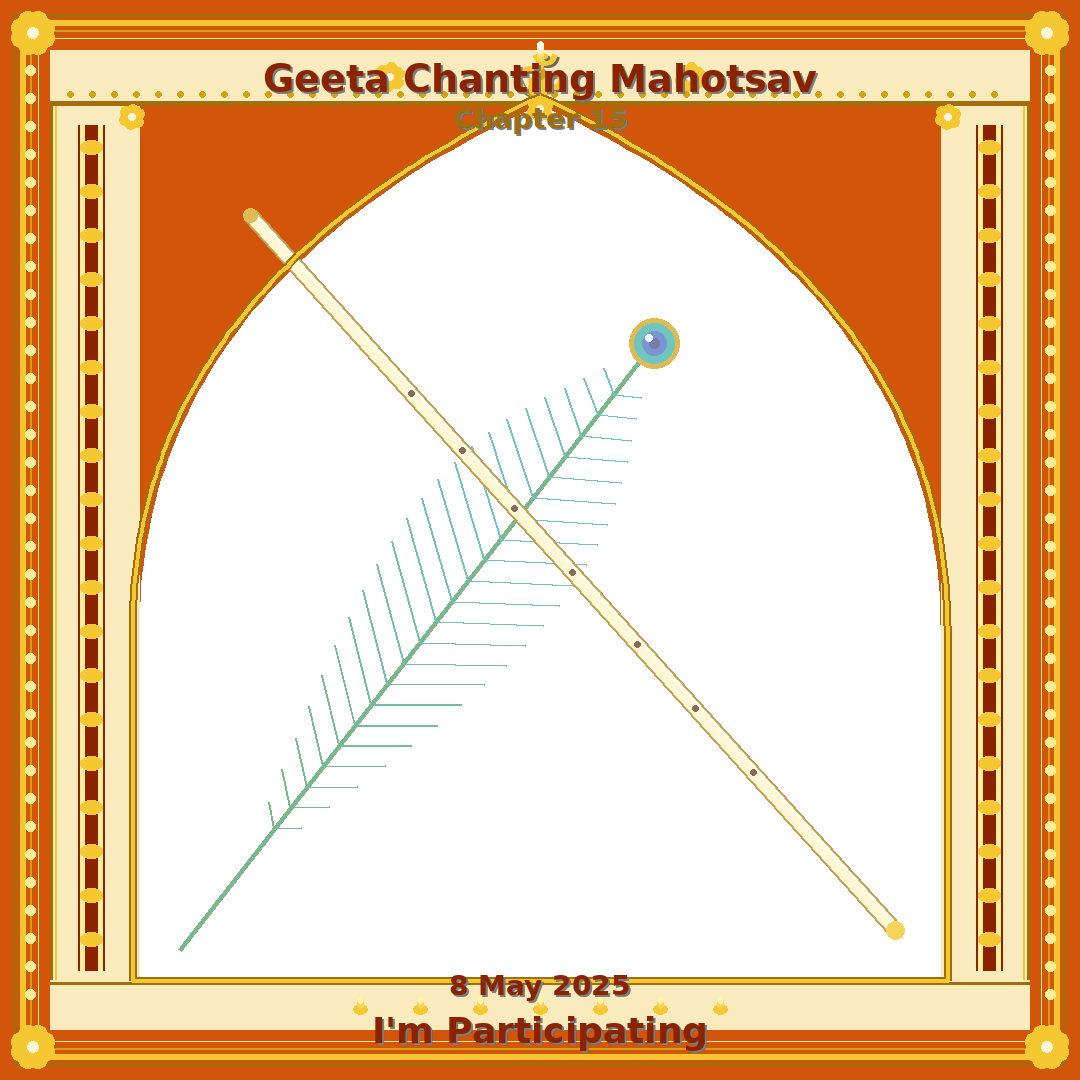
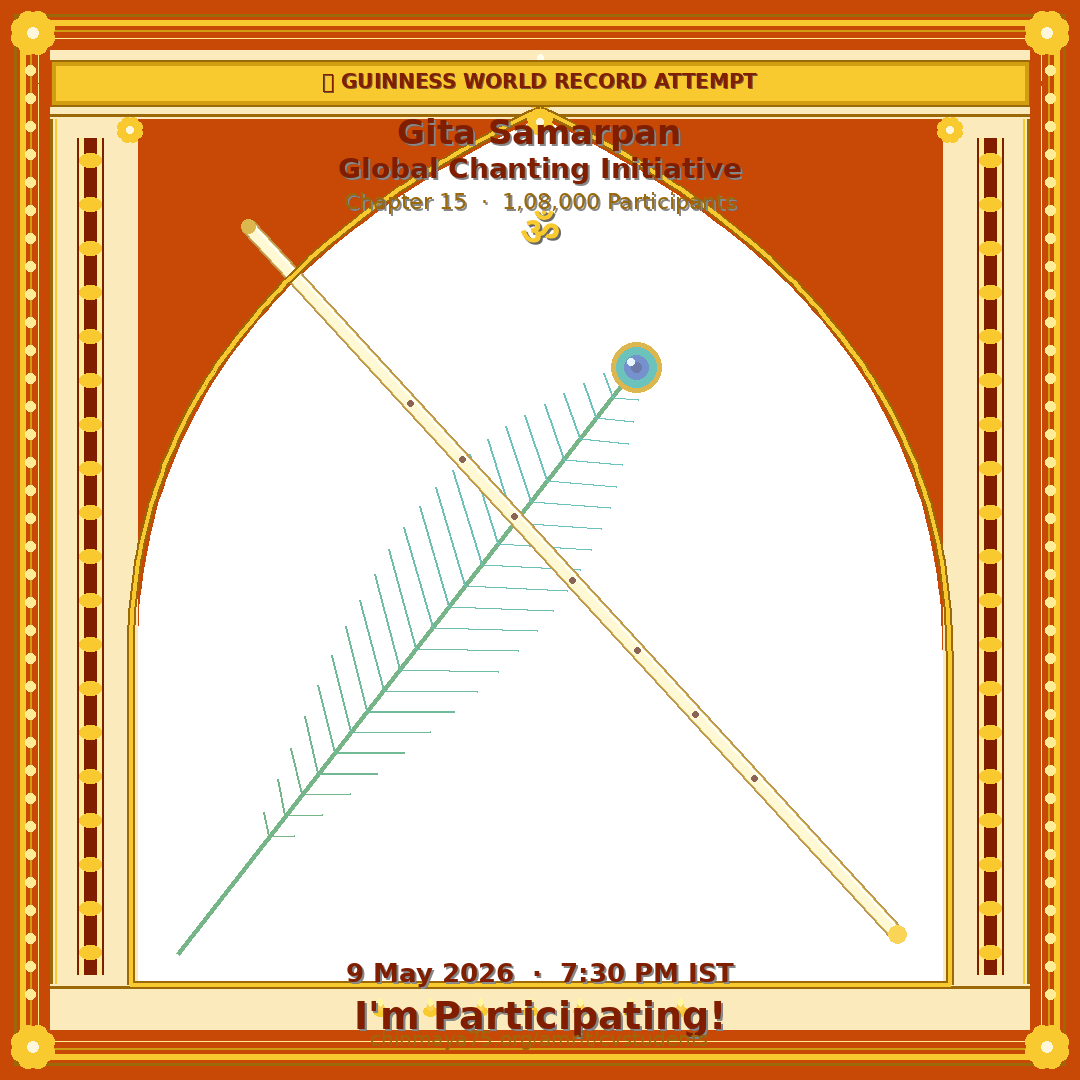
feat: Campaign accuracy update – Gita Samarpan v5
Frames (v5):
- Correct event: Gita Samarpan / वैश्विक गीता पाठ कार्यक्रम
- Correct date: 9 May 2026 · 7:30 PM IST (was 8 May)
- Guinness World Record gold ribbon badge at top of frame
- 1,08,000 participants callout on frame
- Registration URL: chinmaya75.org/amrit/cvstudents on frame
- Chinmaya Mission branding

App code:
- Header: Guinness badge, corrected date/time/participant count
- ActionButtons: full campaign sharing text with registration link,
  correct hashtags (#GitaSamarpan #ChinmayaMission #GuinnessRecord)
- page.tsx: Event info card with registration CTA button,
  updated footer with live registration link
- layout.tsx: Updated SEO metadata/OG tags for campaign

Changed region(s): [[0.0306, 0.0306, 0.9778, 0.9778], [0.7944, 0.825, 0.825, 0.8556], [0.2444, 0.7333, 0.275, 0.7639]]

diff --git a/app/page.tsx b/app/page.tsx
@@ -63,8 +63,23 @@ export default function HomePage() {
             />
             <UploadBox onImageSelected={handleImageSelected} />
 
+            {/* Event info card */}
+            <div className="rounded-xl bg-gradient-to-br from-orange-50 to-yellow-50 border border-orange-200 px-4 py-3 text-sm text-orange-800 space-y-2">
+              <p className="font-bold text-orange-900">🏆 Guinness World Record Attempt</p>
+              <p className="text-orange-700">1,08,000 participants chanting Bhagavad Gita Chapter 15 simultaneously — by Chinmaya Mission USA.</p>
+              <p className="text-orange-600 font-medium">📅 9 May 2026 &nbsp;·&nbsp; 🕖 7:30 PM IST</p>
+              <a
+                href="https://chinmaya75.org/amrit/cvstudents"
+                target="_blank"
+                rel="noopener noreferrer"
+                className="block w-full text-center bg-orange-600 hover:bg-orange-700 text-white font-bold py-2.5 rounded-xl mt-1 transition-colors shadow"
+              >
+                🔗 Register Free (Indian Students)
+              </a>
+            </div>
+
             {/* Tips */}
-            <div className="rounded-xl bg-orange-50 border border-orange-200 px-4 py-3 text-sm text-orange-700 space-y-1">
+            <div className="rounded-xl bg-white border border-orange-100 px-4 py-3 text-sm text-orange-700 space-y-1">
               <p className="font-semibold">💡 Tips for best results</p>
               <p>• Use a square or portrait photo</p>
               <p>• Ensure your face is centred</p>
@@ -159,8 +174,16 @@ export default function HomePage() {
       </main>
 
       {/* ── Footer ─────────────────────────────────────────────────────── */}
-      <footer className="text-center py-4 text-xs text-orange-400 border-t border-orange-100">
-        🕉 वैश्विक गीता पाठ कार्यक्रम · Chapter 15 · 8 May
+      <footer className="text-center py-4 px-4 text-xs text-orange-400 border-t border-orange-100 space-y-1">
+        <p>🕉 Gita Samarpan · Chinmaya Mission USA · 9 May 2026</p>
+        <a
+          href="https://chinmaya75.org/amrit/cvstudents"
+          target="_blank"
+          rel="noopener noreferrer"
+          className="text-orange-500 underline"
+        >
+          chinmaya75.org/amrit/cvstudents
+        </a>
       </footer>
     </div>
   );

diff --git a/app/components/Header.tsx b/app/components/Header.tsx
@@ -3,21 +3,37 @@
  */
 export default function Header() {
   return (
-    <header className="w-full bg-gradient-to-r from-[#8B1A00] via-[#C8410A] to-[#8B1A00] py-4 px-4 shadow-lg">
+    <header className="w-full bg-gradient-to-b from-[#7A1500] via-[#C8410A] to-[#8B1A00] py-4 px-4 shadow-lg">
       <div className="max-w-lg mx-auto text-center">
-        {/* Sanskrit / Hindi title */}
+
+        {/* Guinness badge */}
+        <div className="inline-flex items-center gap-1.5 bg-yellow-400 text-yellow-900 text-xs font-bold px-3 py-1 rounded-full mb-2 shadow">
+          🏆 Guinness World Record Attempt
+        </div>
+
+        {/* Hindi title */}
         <h1 className="text-yellow-200 font-bold text-xl sm:text-2xl leading-tight tracking-wide drop-shadow">
           🕉 वैश्विक गीता पाठ कार्यक्रम
         </h1>
+
         {/* English subtitle */}
-        <p className="text-orange-100 text-sm sm:text-base mt-1 tracking-widest font-medium">
-          Geeta Chanting Mahotsav
+        <p className="text-orange-100 text-sm sm:text-base mt-0.5 font-semibold tracking-wide">
+          Gita Samarpan – Global Chanting Initiative
         </p>
-        <div className="flex items-center justify-center gap-2 mt-2">
-          <span className="h-px w-12 bg-yellow-400 opacity-60" />
-          <span className="text-yellow-300 text-xs">Chapter 15 · 8 May</span>
-          <span className="h-px w-12 bg-yellow-400 opacity-60" />
+
+        {/* Key details row */}
+        <div className="flex items-center justify-center flex-wrap gap-x-3 gap-y-1 mt-2">
+          <span className="text-yellow-300 text-xs font-medium">📖 Chapter 15</span>
+          <span className="text-yellow-500 text-xs">·</span>
+          <span className="text-yellow-300 text-xs font-medium">📅 9 May 2026</span>
+          <span className="text-yellow-500 text-xs">·</span>
+          <span className="text-yellow-300 text-xs font-medium">🕖 7:30 PM IST</span>
         </div>
+
+        {/* Participants count */}
+        <p className="text-orange-200 text-xs mt-1.5">
+          1,08,000 participants · Free for Indian students
+        </p>
       </div>
     </header>
   );

diff --git a/app/components/ActionButtons.tsx b/app/components/ActionButtons.tsx
@@ -10,10 +10,16 @@ interface ActionButtonsProps {
 }
 
 export default function ActionButtons({ compositedDataUrl }: ActionButtonsProps) {
+  const REGISTER_URL = "https://chinmaya75.org/amrit/cvstudents";
+
   const shareText = encodeURIComponent(
-    "मैं वैश्विक गीता पाठ कार्यक्रम – अध्याय 15 में सहभागी हूँ! 🙏\n" +
-    "I'm participating in the Geeta Chanting Mahotsav – Chapter 15! 🙏\n" +
-    "8 May | #GeetaChanting #VaishvikGeetaPath"
+    "🏆 मैं वैश्विक गीता पाठ कार्यक्रम (Gita Samarpan) में सहभागी हूँ! 🙏\n\n" +
+    "Chinmaya Mission USA is attempting a Guinness World Record —\n" +
+    "1,08,000 participants chanting Bhagavad Gita Chapter 15 simultaneously!\n\n" +
+    "📅 9 May 2026 · 🕖 7:30 PM IST\n" +
+    "✅ FREE for Indian students & alumni\n\n" +
+    "👉 Register here: " + REGISTER_URL + "\n\n" +
+    "#GitaSamarpan #GeetaChanting #ChinmayaMission #GuinnessRecord #BhagavadGita"
   );
 
   const handleDownload = () => {
@@ -35,11 +41,10 @@ export default function ActionButtons({ compositedDataUrl }: ActionButtonsProps)
   };
 
   const handleInstagram = () => {
-    // Instagram doesn't support direct web share; guide user
     if (compositedDataUrl) {
-      downloadImage(compositedDataUrl, "geeta-chanting-frame.png");
+      downloadImage(compositedDataUrl, "gita-samarpan-frame.png");
       alert(
-        "📲 Image downloaded!\n\nOpen Instagram → Create Post → Select the downloaded image."
+        "📲 Image downloaded!\n\nOpen Instagram → Create Post → Select the downloaded image.\n\nDon't forget to add the registration link in your bio or caption:\nchinmaya75.org/amrit/cvstudents"
       );
     }
   };

diff --git a/app/layout.tsx b/app/layout.tsx
@@ -2,18 +2,20 @@ import type { Metadata } from "next";
 import "./globals.css";
 
 export const metadata: Metadata = {
-  title: "वैश्विक गीता पाठ – Frame Generator",
+  title: "Gita Samarpan – Campaign Frame Generator",
   description:
-    "Create your personalised campaign frame for the Geeta Chanting Mahotsav – Chapter 15 · 8 May",
+    "Create your campaign frame for Gita Samarpan – Chinmaya Mission USA's Guinness World Record attempt. 1,08,000 participants chanting Bhagavad Gita Chapter 15. 9 May 2026 · 7:30 PM IST. Free for Indian students.",
   openGraph: {
-    title: "वैश्विक गीता पाठ कार्यक्रम – I'm Participating",
-    description: "Generate your Geeta Chanting campaign frame in Hindi or English.",
-    siteName: "Geeta Chanting Frame",
+    title: "Gita Samarpan – I'm Participating! 🏆",
+    description:
+      "Join Chinmaya Mission USA's Guinness World Record attempt – 1,08,000 people chanting Gita Chapter 15 simultaneously. 9 May 2026. Register free: chinmaya75.org/amrit/cvstudents",
+    siteName: "Gita Samarpan Frame",
     type: "website",
   },
   twitter: {
     card: "summary_large_image",
-    title: "Geeta Chanting Mahotsav – Frame Generator",
+    title: "Gita Samarpan – Guinness World Record Attempt",
+    description: "Generate your campaign frame and help spread the word!",
   },
 };
 
